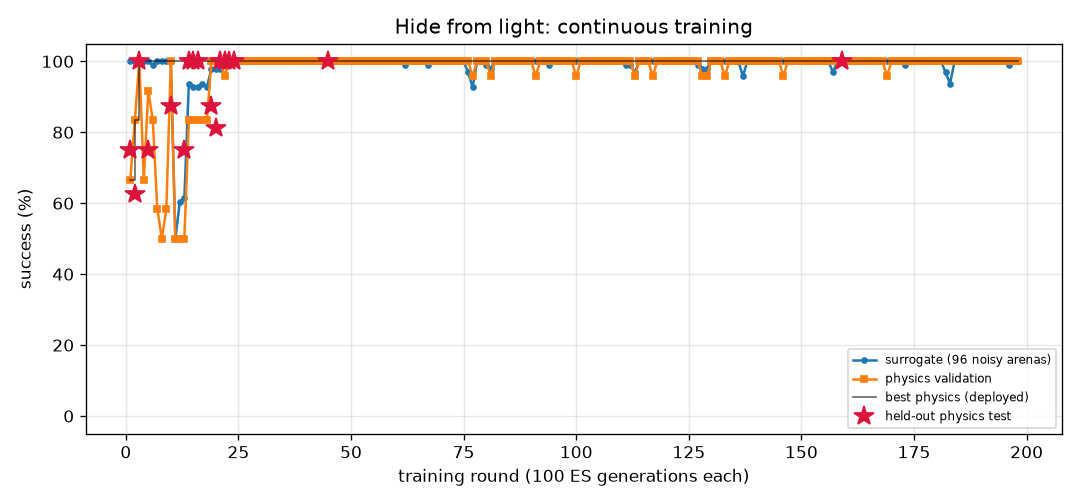
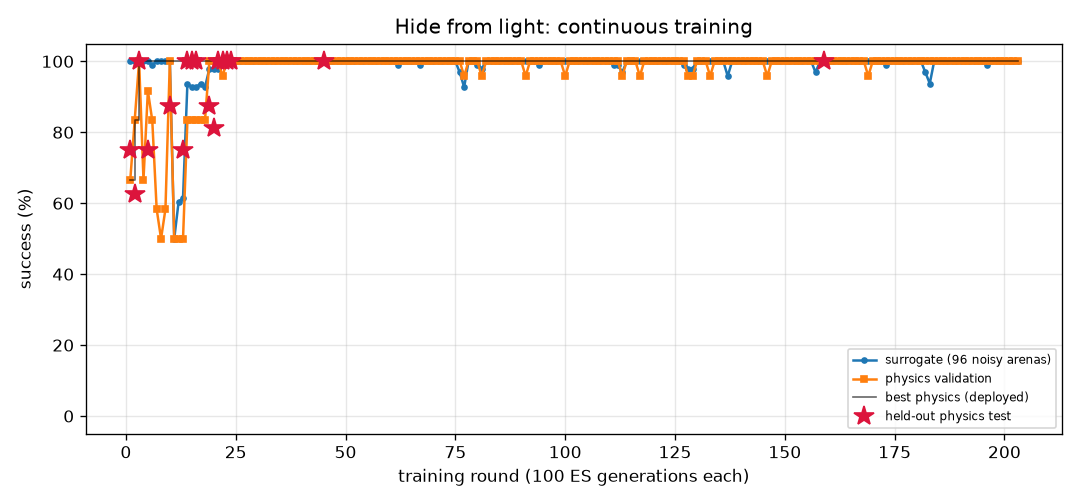
FlyLab: daily review — 7/7 optimal, all fresh checks 100%

diff --git a/projects/09_flylab/training/odor_avoid/REPORT.md b/projects/09_flylab/training/odor_avoid/REPORT.md
@@ -1,14 +1,14 @@
 # Escape a bad smell (`odor_avoid`) — training report
 
-*Auto-generated by `train_brains.py`, last updated 2026-10-11T23:02:17.*
+*Auto-generated by `train_brains.py`, last updated 2026-10-13T21:48:18.*
 
 ![curve](curve.png)
 
 | | |
 |---|---|
-| rounds | 422 |
-| ES generations | 42200 |
-| physics runs | 7434 |
+| rounds | 439 |
+| ES generations | 43900 |
+| physics runs | 7842 |
 | status | **optimal** |
 | best brain | round 373: physics validation **100%** on 24 arenas, surrogate 97% |
 | held-out physics test | **97%** on 32 unseen arenas (95% CI 84%-99%) (errors: [62.0, 57.4, 62.6, 61.9, 59.0, 61.6, 56.5, 60.7, 31.7, 60.9, 63.1, 57.1, 61.1, 62.1, 61.5, 60.2, 62.2, 55.2, 62.1, 54.2, 61.3, 62.0, 58.0, 61.9, 59.8, 56.5, 56.3, 56.4, 56.3, 57.7, 61.9, 32.4]) |
@@ -17,23 +17,6 @@ Physics error per arena: mm gained away from source (> 6 without first approachi
 
 | round | level | gens | sigma | surrogate | physics val | val errors | test | note |
 |---:|---:|---:|---:|---:|---:|---|---:|---|
-| 383 | 3 | 38300 | 0.028 | 92% | 100% | [62.9, 61.7, 55.5, 61.6, 60.8, 59.4, 61.7, 42.4, 60.9, 44.6, 43.2, 61.4, 36.7, 53.3, 6.5, 61.7, 61.5, 61.0, 50.0, 57.7, 61.8, 53.8, 59.6, 62.0] |  |  |
-| 384 | 3 | 38400 | 0.029 | 96% | 96% | [63.2, 56.0, 56.3, 59.1, 61.6, 61.2, 61.6, 55.2, 60.3, 35.1, 45.7, 61.7, 53.0, 55.5, 40.4, 61.9, 61.8, 62.0, 55.2, 58.3, 61.8, 52.8, 58.7, 62.3] |  |  |
-| 385 | 3 | 38500 | 0.026 | 97% | 100% | [61.1, 57.8, 55.9, 57.2, 61.8, 60.6, 61.9, 60.8, 61.5, 59.6, 47.1, 61.5, 48.5, 54.4, 29.2, 61.3, 61.2, 60.0, 52.4, 60.1, 60.6, 61.6, 60.9, 62.1] |  | restart from best |
-| 386 | 3 | 38600 | 0.026 | 98% | 96% | [62.8, 58.6, 57.8, 61.3, 61.7, 61.9, 61.5, 43.6, 59.8, 59.2, 62.0, 61.8, 55.2, 58.4, 42.6, 61.3, 61.7, 60.7, 54.9, 60.2, 61.7, 61.3, 58.7, 58.2] |  |  |
-| 387 | 3 | 38700 | 0.025 | 96% | 96% | [62.8, 58.9, 58.2, 60.5, 61.1, 61.1, 60.8, 45.0, 60.8, 46.4, 60.6, 59.6, 51.5, 55.1, 38.9, 60.1, 60.0, 59.6, 53.5, 57.0, 59.6, 58.1, 59.1, 52.7] |  |  |
-| 388 | 3 | 38800 | 0.026 | 93% | 96% | [62.4, 59.5, 56.5, 61.1, 59.6, 61.1, 60.9, 58.8, 60.2, 42.4, 59.2, 60.2, 52.5, 54.7, 43.9, 58.4, 60.6, 60.3, 52.3, 56.5, 60.7, 61.3, 58.6, 62.0] |  |  |
-| 389 | 3 | 38900 | 0.028 | 95% | 96% | [61.7, 60.8, 55.8, 60.9, 60.6, 61.6, 61.6, 59.1, 61.6, 60.3, 60.3, 61.9, 51.4, 55.7, 33.6, 61.8, 61.7, 62.4, 54.6, 56.7, 61.6, 61.4, 57.2, 61.3] |  | restart from best |
-| 390 | 3 | 39000 | 0.026 | 95% | 96% | [63.2, 58.7, 56.3, 60.9, 62.2, 61.3, 61.7, 52.1, 60.3, 60.3, 62.2, 61.9, 54.7, 56.3, 38.1, 61.9, 61.9, 62.6, 55.6, 57.3, 61.9, 61.9, 59.3, 58.6] |  |  |
-| 391 | 3 | 39100 | 0.027 | 95% | 100% | [61.6, 59.8, 55.8, 60.7, 61.7, 61.0, 60.5, 34.1, 60.7, 60.3, 61.2, 61.2, 54.7, 55.9, 50.4, 61.9, 61.4, 61.4, 54.6, 56.7, 61.6, 60.2, 59.1, 51.4] |  |  |
-| 392 | 3 | 39200 | 0.027 | 97% | 96% | [61.7, 59.9, 55.3, 60.2, 60.2, 59.7, 60.2, 10.8, 59.6, 25.1, 7.2, 60.6, 50.5, 55.0, 41.2, 59.4, 60.4, 60.1, 53.8, 57.2, 60.9, 44.7, 54.8, 29.5] |  |  |
-| 393 | 3 | 39300 | 0.026 | 96% | 100% | [62.9, 57.5, 56.3, 61.2, 62.3, 61.7, 61.7, 57.0, 60.2, 42.8, 54.4, 62.2, 50.0, 55.9, 39.7, 61.8, 62.0, 60.8, 55.0, 55.8, 61.9, 50.0, 61.5, 58.8] |  | restart from best |
-| 394 | 3 | 39400 | 0.026 | 94% | 100% | [63.3, 57.1, 56.2, 60.1, 61.2, 61.0, 61.1, 53.4, 61.1, 54.3, 58.0, 61.7, 53.1, 55.4, 31.7, 62.4, 62.2, 61.7, 54.9, 57.8, 61.8, 62.5, 59.6, 62.7] |  |  |
-| 395 | 3 | 39500 | 0.028 | 94% | 100% | [62.7, 59.5, 57.2, 61.3, 61.8, 62.6, 60.9, 53.5, 61.7, 61.7, 61.4, 62.5, 54.4, 57.4, 11.2, 61.4, 62.3, 62.2, 55.3, 57.3, 62.2, 59.5, 60.0, 60.9] |  |  |
-| 396 | 3 | 39600 | 0.028 | 98% | 96% | [63.3, 61.3, 58.0, 59.7, 62.0, 62.8, 60.9, 58.8, 62.0, 62.4, 61.7, 61.4, 54.3, 58.2, 50.4, 62.6, 62.0, 62.5, 54.7, 59.9, 61.8, 62.3, 56.8, 59.1] |  |  |
-| 397 | 3 | 39700 | 0.025 | 96% | 100% | [61.5, 59.9, 55.9, 59.3, 60.2, 60.8, 62.0, 60.2, 62.2, 47.6, 51.7, 61.5, 50.4, 55.2, 36.2, 61.4, 61.3, 61.6, 52.0, 56.8, 61.4, 61.0, 60.4, 61.6] |  | restart from best |
-| 398 | 3 | 39800 | 0.026 | 97% | 100% | [62.6, 59.4, 56.3, 60.9, 62.5, 62.5, 62.1, 46.7, 62.1, 57.5, 54.8, 61.9, 48.0, 56.1, 21.2, 57.2, 61.7, 56.1, 49.7, 59.7, 61.9, 53.5, 59.9, 53.3] |  |  |
-| 399 | 3 | 39900 | 0.026 | 98% | 100% | [63.5, 58.4, 56.7, 59.6, 62.4, 62.7, 62.0, 22.7, 61.5, 61.9, 61.0, 61.7, 48.9, 55.2, 18.5, 61.5, 62.1, 60.6, 50.0, 56.3, 62.0, 62.5, 59.1, 52.5] |  |  |
 | 400 | 3 | 40000 | 0.025 | 94% | 100% | [59.4, 53.8, 55.8, 55.5, 60.9, 60.1, 60.1, 56.8, 60.0, 52.7, 40.0, 60.5, 43.7, 55.0, 34.0, 59.3, 60.9, 59.9, 48.7, 53.6, 60.7, 58.0, 56.3, 58.4] |  |  |
 | 401 | 3 | 40100 | 0.028 | 96% | 96% | [63.8, 61.6, 56.6, 59.3, 62.4, 63.0, 61.9, 62.3, 61.1, 63.1, 62.7, 62.5, 55.2, 56.6, 48.5, 62.4, 62.1, 62.7, 55.2, 60.6, 62.4, 63.0, 55.9, 63.1] |  | restart from best |
 | 402 | 3 | 40200 | 0.026 | 93% | 96% | [64.0, 56.3, 55.8, 61.6, 61.6, 62.3, 62.1, 48.5, 60.9, 57.5, 61.7, 61.1, 52.6, 56.1, 32.4, 62.2, 62.0, 62.4, 55.3, 59.0, 61.5, 60.5, 58.9, 62.5] |  |  |
@@ -57,3 +40,20 @@ Physics error per arena: mm gained away from source (> 6 without first approachi
 | 420 | 3 | 42000 | 0.026 | 95% | 96% | [63.5, 61.7, 56.9, 61.9, 60.5, 59.9, 61.7, 23.2, 61.0, 43.5, 60.3, 61.3, 51.9, 55.3, 29.7, 60.5, 61.8, 60.0, 55.1, 60.9, 61.9, 38.6, 61.2, 62.8] |  |  |
 | 421 | 3 | 42100 | 0.027 | 96% | 96% | [63.8, 61.5, 56.4, 61.8, 62.3, 62.5, 62.2, 60.6, 60.9, 61.6, 61.4, 62.5, 55.2, 56.4, 43.7, 62.0, 62.3, 62.3, 55.4, 61.7, 62.4, 60.6, 61.8, 62.9] |  | restart from best |
 | 422 | 3 | 42200 | 0.026 | 94% | 100% | [63.0, 61.1, 56.4, 55.8, 60.4, 60.0, 61.0, 60.6, 61.6, 57.2, 57.5, 61.6, 50.5, 54.1, 29.2, 62.1, 62.1, 62.0, 51.2, 59.3, 62.4, 61.2, 61.7, 62.8] |  |  |
+| 423 | 3 | 42300 | 0.028 | 94% | 96% | [63.5, 57.4, 56.3, 58.7, 60.8, 60.9, 62.3, 58.8, 59.9, 54.0, 58.5, 62.0, 53.5, 55.5, 42.1, 62.0, 61.8, 60.8, 55.3, 56.9, 61.8, 54.3, 58.4, 45.5] |  |  |
+| 424 | 3 | 42400 | 0.028 | 94% | 96% | [63.5, 57.4, 56.4, 60.8, 62.0, 61.0, 61.8, 42.2, 60.4, 56.1, 62.3, 62.2, 55.0, 56.4, 48.1, 62.3, 62.2, 60.5, 55.5, 56.1, 62.4, 61.9, 61.2, 50.1] |  |  |
+| 425 | 3 | 42500 | 0.028 | 95% | 100% | [63.4, 61.5, 56.2, 61.4, 61.3, 61.5, 61.5, 62.6, 61.2, 60.9, 35.1, 61.8, 49.3, 55.6, 15.8, 62.4, 62.0, 49.4, 51.5, 56.9, 62.0, 62.0, 61.4, 62.6] |  | restart from best |
+| 426 | 3 | 42600 | 0.026 | 97% | 96% | [62.1, 60.9, 56.3, 60.4, 61.6, 62.5, 60.7, 45.2, 61.9, 39.8, 61.0, 62.1, 51.8, 55.8, 37.5, 62.0, 61.8, 62.6, 55.2, 59.5, 61.8, 53.4, 59.9, 61.6] |  |  |
+| 427 | 3 | 42700 | 0.026 | 95% | 96% | [62.8, 60.0, 56.1, 61.1, 62.4, 61.2, 61.3, 1.5, 61.1, 57.3, 60.7, 61.9, 51.6, 56.2, 39.3, 61.7, 61.7, 61.3, 51.9, 56.9, 61.8, 39.0, 59.0, 14.9] |  |  |
+| 428 | 3 | 42800 | 0.027 | 96% | 96% | [63.6, 59.6, 55.7, 61.6, 62.9, 61.5, 61.5, 59.7, 61.7, 61.7, 62.0, 62.0, 52.1, 55.7, 42.7, 62.1, 61.8, 61.7, 55.0, 57.4, 62.2, 62.6, 61.6, 61.9] |  |  |
+| 429 | 3 | 42900 | 0.026 | 96% | 100% | [62.7, 58.7, 56.4, 61.2, 62.3, 62.0, 61.2, 40.6, 60.8, 58.1, 60.9, 61.7, 50.3, 56.0, 47.7, 62.5, 61.8, 62.1, 54.1, 57.1, 61.8, 60.6, 60.9, 61.1] |  | restart from best |
+| 430 | 3 | 43000 | 0.026 | 95% | 96% | [63.3, 57.6, 58.1, 58.7, 59.7, 48.7, 61.6, 32.0, 60.4, 50.6, 23.6, 60.6, 51.2, 55.6, 44.9, 58.1, 61.1, 49.9, 51.7, 56.5, 61.1, 53.2, 58.9, 33.4] |  |  |
+| 431 | 3 | 43100 | 0.027 | 97% | 96% | [61.2, 60.6, 56.4, 59.6, 60.7, 60.0, 60.1, 49.9, 61.3, 40.9, 56.5, 60.4, 52.5, 57.7, 25.7, 60.5, 60.9, 60.5, 54.3, 58.6, 61.2, 62.0, 59.2, 62.4] |  |  |
+| 432 | 3 | 43200 | 0.026 | 95% | 100% | [61.6, 60.4, 55.5, 55.4, 56.7, 45.2, 60.3, 57.7, 60.7, 53.0, 51.3, 60.4, 51.8, 56.3, 37.7, 56.0, 60.4, 52.9, 54.5, 58.5, 60.4, 57.0, 60.8, 61.3] |  |  |
+| 433 | 3 | 43300 | 0.027 | 95% | 100% | [61.0, 56.0, 55.7, 56.1, 60.8, 60.0, 60.2, 44.0, 60.5, 47.2, 60.4, 60.3, 54.2, 56.0, 29.0, 55.0, 61.1, 42.3, 54.4, 56.1, 60.2, 49.7, 60.1, 47.2] |  | restart from best |
+| 434 | 3 | 43400 | 0.026 | 94% | 100% | [63.4, 56.8, 57.3, 57.5, 62.3, 61.3, 61.8, 45.0, 60.8, 60.7, 61.6, 62.1, 54.7, 57.6, 45.7, 62.3, 62.2, 62.3, 54.7, 56.6, 62.1, 62.0, 57.8, 60.3] |  |  |
+| 435 | 3 | 43500 | 0.028 | 95% | 96% | [62.9, 57.5, 58.5, 60.4, 61.0, 61.1, 62.2, 42.4, 59.9, 37.9, 24.3, 60.6, 51.2, 55.4, 39.5, 61.5, 61.4, 59.4, 54.5, 57.9, 60.6, 62.1, 58.2, 62.7] |  |  |
+| 436 | 3 | 43600 | 0.027 | 97% | 96% | [62.5, 57.3, 57.4, 57.3, 60.1, 52.6, 61.2, 43.6, 59.0, 57.9, 23.7, 59.9, 49.4, 56.7, 37.6, 61.6, 59.3, 60.8, 50.4, 56.1, 59.8, 54.5, 57.4, 53.2] |  |  |
+| 437 | 3 | 43700 | 0.026 | 95% | 96% | [63.1, 54.0, 57.8, 57.6, 59.6, 61.6, 61.0, 34.6, 60.1, 56.6, 21.8, 60.4, 50.8, 55.7, 29.9, 61.4, 60.9, 61.7, 51.8, 53.6, 60.7, 59.6, 57.6, 48.1] |  | restart from best |
+| 438 | 3 | 43800 | 0.026 | 96% | 96% | [62.5, 61.3, 56.0, 61.1, 59.9, 58.8, 61.5, 58.9, 62.1, 58.9, 15.0, 61.8, 52.8, 55.4, 31.1, 61.4, 61.9, 54.9, 54.5, 60.9, 61.3, 59.6, 61.2, 62.2] |  |  |
+| 439 | 3 | 43900 | 0.026 | 95% | 96% | [62.8, 57.8, 56.4, 61.5, 60.8, 61.9, 61.4, 40.7, 61.5, 56.8, 31.2, 62.2, 52.2, 55.9, 43.3, 61.7, 62.3, 61.6, 55.2, 60.1, 62.5, 61.0, 61.2, 61.8] |  |  |

diff --git a/projects/09_flylab/training/turn/REPORT.md b/projects/09_flylab/training/turn/REPORT.md
@@ -1,14 +1,14 @@
 # Turn in place (`turn`) — training report
 
-*Auto-generated by `train_brains.py`, last updated 2026-10-13T15:09:05.*
+*Auto-generated by `train_brains.py`, last updated 2026-10-13T21:52:19.*
 
 ![curve](curve.png)
 
 | | |
 |---|---|
-| rounds | 371 |
-| ES generations | 37100 |
-| physics runs | 9150 |
+| rounds | 387 |
+| ES generations | 38700 |
+| physics runs | 9534 |
 | status | **optimal** |
 | best brain | round 80: physics validation **100%** on 24 arenas, surrogate 100% |
 | held-out physics test | **97%** on 32 unseen arenas (95% CI 84%-99%) (errors: [1.6, 3.3, 6.3, 3.7, 1.1, 0.4, 2.4, 2.9, 0.1, 2.6, 0.5, 2.7, 1.5, 3.1, 4.5, 0.2, 0.5, 1.1, 2.0, 4.4, 2.8, 3.2, 0.3, 2.2, 0.5, 3.0, 0.3, 5.4, 0.4, 1.0, 4.7, 10.7]) |
@@ -17,22 +17,6 @@ Physics error per arena: deg from target heading (< 20 = success).
 
 | round | level | gens | sigma | surrogate | physics val | val errors | test | note |
 |---:|---:|---:|---:|---:|---:|---|---:|---|
-| 332 | 3 | 33200 | 0.026 | 99% | 79% | [1.6, 6.7, 1.9, 1.9, 1.9, 2.7, 5.9, 5.2, 4.7, 0.3, 3.9, 0.8, 1.1, 0.2, 4.2, 1.7, 0.1, 0.8, 3.1, 3.5, 5.6, 0.8, 6.5, 3.2] |  | restart from best |
-| 333 | 3 | 33300 | 0.024 | 99% | 96% | [8.4, 8.6, 5.5, 6.0, 3.9, 1.1, 1.0, 2.5, 0.4, 2.6, 0.4, 3.4, 5.5, 6.5, 0.9, 2.0, 3.7, 4.4, 4.7, 2.4, 5.8, 1.7, 1.0, 6.9] |  |  |
-| 334 | 3 | 33400 | 0.025 | 99% | 75% | [8.1, 5.4, 8.5, 1.4, 1.2, 0.2, 7.9, 5.3, 9.6, 1.4, 5.6, 2.9, 3.0, 0.9, 4.7, 2.6, 2.6, 4.8, 2.8, 3.7, 2.1, 0.8, 9.3, 6.6] |  |  |
-| 335 | 3 | 33500 | 0.025 | 99% | 92% | [6.2, 8.0, 0.1, 3.0, 4.4, 1.3, 3.7, 4.9, 4.6, 0.4, 3.6, 1.6, 2.0, 3.7, 3.6, 0.9, 0.9, 0.9, 1.0, 1.1, 5.6, 0.1, 5.5, 0.2] |  |  |
-| 336 | 3 | 33600 | 0.025 | 100% | 79% | [6.7, 0.9, 5.2, 1.1, 4.4, 0.8, 5.6, 4.9, 5.8, 14.1, 5.5, 0.1, 0.6, 0.4, 5.3, 0.4, 0.8, 2.9, 0.0, 1.4, 5.8, 4.2, 5.8, 3.8] |  | restart from best |
-| 337 | 3 | 33700 | 0.024 | 99% | 96% | [3.2, 8.3, 6.7, 0.6, 2.8, 2.9, 3.6, 3.3, 4.8, 1.1, 3.3, 0.9, 2.5, 1.7, 2.4, 0.0, 1.0, 0.6, 0.1, 0.4, 6.7, 0.5, 1.8, 2.9] |  |  |
-| 338 | 3 | 33800 | 0.025 | 98% | 88% | [10.0, 12.5, 9.7, 4.4, 3.5, 2.3, 1.6, 7.8, 1.2, 2.4, 1.7, 4.2, 0.1, 3.1, 1.1, 2.9, 5.4, 2.4, 2.8, 5.6, 9.7, 0.2, 1.6, 5.1] |  |  |
-| 339 | 3 | 33900 | 0.025 | 99% | 100% | [5.6, 9.3, 3.8, 5.1, 4.8, 0.3, 3.4, 1.5, 4.4, 1.4, 3.5, 2.0, 0.4, 2.5, 3.6, 0.9, 2.4, 1.6, 1.0, 3.0, 5.0, 1.5, 2.1, 2.3] |  |  |
-| 340 | 3 | 34000 | 0.025 | 99% | 83% | [6.5, 7.0, 0.6, 0.2, 3.7, 5.3, 5.2, 1.4, 5.3, 0.5, 4.9, 1.3, 2.4, 0.9, 4.5, 0.0, 0.6, 0.1, 0.1, 0.1, 4.9, 3.8, 6.7, 6.2] |  | restart from best |
-| 341 | 3 | 34100 | 0.024 | 100% | 75% | [6.9, 2.7, 3.8, 2.4, 0.7, 1.9, 5.1, 7.5, 6.6, 1.4, 3.2, 0.9, 0.2, 1.0, 4.9, 0.0, 0.8, 1.7, 0.2, 0.8, 2.8, 0.5, 6.3, 7.1] |  |  |
-| 342 | 3 | 34200 | 0.024 | 99% | 79% | [8.4, 9.8, 2.0, 2.1, 0.3, 3.2, 3.9, 3.3, 4.3, 1.9, 2.7, 2.9, 1.0, 3.3, 2.0, 1.1, 2.5, 0.0, 1.6, 2.7, 5.1, 2.9, 2.1, 2.8] |  |  |
-| 343 | 3 | 34300 | 0.025 | 99% | 83% | [4.6, 9.0, 3.1, 5.1, 3.2, 4.7, 2.5, 4.7, 2.6, 1.9, 2.2, 1.8, 3.7, 2.7, 3.7, 0.3, 2.0, 0.6, 1.0, 2.2, 4.6, 0.1, 4.0, 4.8] |  |  |
-| 344 | 3 | 34400 | 0.025 | 99% | 79% | [6.5, 9.2, 6.8, 0.5, 1.7, 2.1, 2.8, 1.1, 2.5, 1.4, 2.7, 1.5, 0.2, 4.2, 2.4, 0.4, 1.3, 0.4, 1.5, 0.7, 5.7, 1.1, 5.1, 5.3] |  | restart from best |
-| 345 | 3 | 34500 | 0.024 | 99% | 71% | [8.0, 8.5, 9.4, 2.7, 2.9, 1.6, 2.0, 0.1, 2.5, 0.4, 3.9, 2.3, 0.9, 4.7, 2.7, 1.4, 1.6, 0.9, 1.3, 1.2, 5.2, 0.8, 2.6, 0.9] |  |  |
-| 346 | 3 | 34600 | 0.025 | 97% | 71% | [7.6, 8.4, 4.9, 3.4, 3.2, 0.0, 2.9, 1.6, 2.1, 0.3, 1.8, 4.2, 2.4, 6.0, 2.1, 2.8, 4.1, 0.4, 1.5, 2.1, 6.4, 2.4, 2.9, 1.1] |  |  |
-| 347 | 3 | 34700 | 0.026 | 99% | 92% | [6.4, 11.0, 8.4, 5.9, 3.5, 2.6, 1.2, 3.2, 2.6, 2.9, 2.6, 5.0, 2.7, 3.4, 2.6, 2.5, 4.2, 0.8, 1.5, 3.3, 6.7, 1.4, 2.6, 2.9] |  |  |
 | 348 | 3 | 34800 | 0.025 | 100% | 83% | [1.4, 8.4, 12.9, 2.1, 2.6, 2.3, 2.7, 3.2, 3.4, 0.4, 2.3, 2.3, 1.9, 5.4, 3.3, 1.9, 2.4, 1.0, 0.4, 0.2, 3.2, 2.8, 2.7, 2.6] |  | restart from best |
 | 349 | 3 | 34900 | 0.024 | 100% | 62% | [5.6, 3.2, 4.3, 0.2, 1.0, 0.6, 5.9, 7.0, 6.6, 0.4, 5.3, 0.1, 0.3, 1.0, 4.7, 0.1, 0.3, 2.4, 0.1, 0.3, 2.8, 0.4, 5.2, 5.9] |  |  |
 | 350 | 3 | 35000 | 0.024 | 100% | 88% | [0.8, 8.5, 0.6, 2.3, 0.4, 2.5, 4.7, 4.2, 3.4, 1.4, 3.4, 4.2, 1.3, 0.1, 4.1, 1.3, 3.9, 2.1, 4.6, 1.1, 8.0, 1.0, 4.7, 4.6] |  |  |
@@ -57,3 +41,19 @@ Physics error per arena: deg from target heading (< 20 = success).
 | 369 | 3 | 36900 | 0.024 | 100% | 92% | [5.0, 3.2, 2.0, 2.9, 0.4, 2.4, 5.8, 0.4, 5.6, 0.2, 3.8, 0.9, 1.1, 2.0, 3.6, 0.4, 0.7, 2.7, 0.5, 0.6, 5.2, 2.5, 5.1, 0.4] |  |  |
 | 370 | 3 | 37000 | 0.024 | 100% | 96% | [6.6, 3.5, 13.4, 0.9, 1.9, 0.1, 4.8, 8.0, 6.6, 1.1, 3.6, 2.5, 1.4, 1.9, 5.0, 2.5, 1.9, 1.4, 2.4, 1.4, 3.3, 2.7, 4.5, 2.1] |  |  |
 | 371 | 3 | 37100 | 0.024 | 100% | 92% | [2.4, 4.6, 3.4, 1.7, 1.9, 2.9, 4.3, 4.9, 3.6, 0.5, 4.1, 1.5, 1.6, 2.4, 3.2, 3.5, 1.6, 2.6, 5.5, 1.4, 3.9, 1.1, 8.1, 4.9] |  |  |
+| 372 | 3 | 37200 | 0.024 | 99% | 79% | [2.2, 0.5, 5.0, 0.1, 1.5, 0.5, 6.1, 9.9, 5.6, 14.5, 4.6, 0.3, 0.1, 2.0, 5.1, 1.5, 0.1, 3.3, 3.3, 2.1, 3.3, 3.0, 6.0, 4.4] |  | restart from best |
+| 373 | 3 | 37300 | 0.024 | 99% | 75% | [5.5, 3.8, 1.4, 1.9, 0.4, 0.4, 7.8, 8.5, 8.4, 0.0, 6.0, 1.9, 0.6, 0.7, 7.0, 4.2, 0.9, 4.6, 3.4, 2.1, 3.3, 2.1, 7.3, 6.8] |  |  |
+| 374 | 3 | 37400 | 0.025 | 100% | 83% | [1.1, 7.0, 9.1, 4.1, 4.3, 114.4, 8.3, 11.0, 11.0, 1.2, 8.0, 1.5, 4.2, 1.5, 6.9, 4.7, 2.2, 5.6, 4.5, 3.7, 1.3, 2.2, 8.6, 9.4] |  |  |
+| 375 | 3 | 37500 | 0.024 | 99% | 92% | [7.5, 5.7, 1.9, 1.9, 0.2, 2.7, 5.0, 1.3, 5.3, 1.1, 3.0, 0.3, 2.3, 1.6, 4.9, 2.1, 0.2, 1.3, 2.3, 3.9, 4.6, 1.8, 3.2, 5.7] |  |  |
+| 376 | 3 | 37600 | 0.025 | 99% | 92% | [2.3, 3.5, 7.5, 2.4, 1.9, 1.0, 9.1, 10.8, 7.7, 3.5, 6.4, 3.7, 2.5, 1.1, 4.8, 5.7, 3.8, 3.2, 5.5, 4.7, 2.5, 2.8, 7.2, 6.2] |  | restart from best |
+| 377 | 3 | 37700 | 0.024 | 99% | 58% | [5.9, 7.9, 4.6, 3.4, 3.8, 5.2, 3.5, 3.2, 4.0, 0.2, 1.9, 1.9, 1.6, 2.4, 2.7, 2.2, 2.9, 0.3, 2.0, 2.4, 7.6, 1.1, 2.8, 3.0] |  |  |
+| 378 | 3 | 37800 | 0.025 | 100% | 96% | [6.5, 10.2, 4.0, 2.6, 3.0, 0.2, 3.7, 2.3, 2.7, 2.7, 2.6, 3.0, 1.3, 4.3, 2.5, 1.8, 2.8, 0.0, 2.7, 2.2, 4.3, 1.5, 3.2, 6.0] |  |  |
+| 379 | 3 | 37900 | 0.024 | 99% | 83% | [0.8, 1.8, 3.9, 2.7, 4.2, 1.5, 5.5, 8.9, 4.1, 0.4, 5.2, 1.9, 0.8, 2.1, 4.5, 1.3, 1.3, 1.5, 3.5, 2.7, 5.2, 2.4, 5.6, 5.3] |  |  |
+| 380 | 3 | 38000 | 0.025 | 99% | 79% | [2.8, 2.7, 5.5, 0.2, 1.1, 0.5, 7.3, 5.8, 7.2, 0.1, 4.4, 0.7, 1.6, 2.5, 5.3, 1.0, 0.8, 2.6, 0.9, 1.7, 1.5, 0.5, 6.2, 5.3] |  | restart from best |
+| 381 | 3 | 38100 | 0.024 | 100% | 79% | [7.4, 5.5, 7.9, 2.1, 2.3, 2.7, 5.5, 0.2, 4.5, 0.6, 3.7, 1.1, 0.1, 0.8, 3.7, 1.1, 2.0, 0.7, 0.6, 1.0, 6.0, 1.2, 5.6, 1.7] |  |  |
+| 382 | 3 | 38200 | 0.024 | 99% | 79% | [4.8, 2.8, 4.9, 0.4, 0.5, 1.4, 5.6, 5.4, 4.8, 1.3, 4.6, 1.4, 1.1, 3.4, 3.8, 1.0, 1.4, 0.9, 1.0, 0.1, 6.8, 0.6, 3.3, 3.8] |  |  |
+| 383 | 3 | 38300 | 0.025 | 100% | 83% | [0.7, 5.2, 9.2, 1.1, 4.5, 0.6, 6.6, 10.3, 9.6, 0.8, 5.8, 2.4, 1.5, 0.3, 5.9, 3.6, 2.4, 4.0, 4.5, 3.4, 3.5, 3.9, 8.9, 6.2] |  |  |
+| 384 | 3 | 38400 | 0.024 | 100% | 96% | [2.2, 2.1, 2.1, 2.4, 0.7, 5.0, 6.6, 9.0, 6.4, 12.1, 3.9, 3.4, 1.2, 0.2, 2.6, 2.2, 3.3, 3.1, 1.8, 10.7, 3.2, 1.0, 6.9, 3.1] |  | restart from best |
+| 385 | 3 | 38500 | 0.024 | 99% | 79% | [5.1, 5.6, 0.5, 3.4, 1.6, 0.4, 3.6, 3.6, 3.4, 0.5, 4.2, 0.1, 2.4, 2.2, 4.0, 0.2, 0.2, 1.4, 0.5, 0.5, 6.0, 0.3, 3.9, 3.9] |  |  |
+| 386 | 3 | 38600 | 0.025 | 98% | 83% | [1.9, 1.9, 0.1, 3.3, 2.5, 4.4, 5.7, 3.6, 5.7, 0.0, 5.7, 0.9, 2.1, 1.0, 7.2, 4.4, 0.0, 1.7, 3.2, 4.3, 5.7, 0.9, 3.9, 5.2] |  |  |
+| 387 | 3 | 38700 | 0.025 | 98% | 75% | [5.6, 1.1, 5.5, 0.2, 2.1, 3.4, 7.9, 2.3, 8.3, 2.4, 5.3, 1.0, 2.4, 1.1, 6.5, 0.8, 1.4, 1.7, 2.3, 3.3, 6.9, 0.4, 6.6, 2.8] |  |  |

diff --git a/projects/09_flylab/training/light_avoid/REPORT.md b/projects/09_flylab/training/light_avoid/REPORT.md
@@ -1,14 +1,14 @@
 # Hide from light (`light_avoid`) — training report
 
-*Auto-generated by `train_brains.py`, last updated 2026-10-11T23:03:30.*
+*Auto-generated by `train_brains.py`, last updated 2026-10-13T16:19:41.*
 
 ![curve](curve.png)
 
 | | |
 |---|---|
-| rounds | 198 |
-| ES generations | 19800 |
-| physics runs | 5024 |
+| rounds | 203 |
+| ES generations | 20300 |
+| physics runs | 5144 |
 | status | **optimal** |
 | best brain | round 159: physics validation **100%** on 24 arenas, surrogate 100% |
 | held-out physics test | **100%** on 32 unseen arenas (95% CI 89%-100%) (errors: [14.4, 56.1, 58.0, 57.9, 57.5, 14.0, 14.4, 56.6, 56.8, 13.3, 14.1, 56.6, 57.6, 13.1, 57.3, 55.9, 57.2, 55.0, 55.2, 53.9, 55.2, 12.4, 53.8, 53.7, 14.1, 13.7, 55.0, 57.8, 56.2, 13.1, 52.8, 56.5]) |
@@ -17,11 +17,6 @@ Physics error per arena: mm gained away from source (> 6 without first approachi
 
 | round | level | gens | sigma | surrogate | physics val | val errors | test | note |
 |---:|---:|---:|---:|---:|---:|---|---:|---|
-| 159 | 3 | 15900 | 0.024 | 100% | 100% | [52.3, 56.4, 55.7, 53.3, 57.8, 53.7, 53.9, 14.5, 54.5, 50.0, 56.5, 57.7, 14.4, 56.4, 56.4, 53.2, 14.2, 57.7, 57.2, 14.4, 53.8, 56.5, 54.5, 57.5] | 100% | new best |
-| 160 | 3 | 16000 | 0.024 | 100% | 100% | [36.9, 37.7, 38.2, 39.0, 39.2, 39.6, 35.5, 14.5, 38.1, 13.5, 39.4, 39.9, 14.4, 40.2, 39.1, 39.7, 14.2, 41.2, 38.7, 14.4, 40.0, 39.7, 36.9, 40.4] |  |  |
-| 161 | 3 | 16100 | 0.024 | 100% | 100% | [38.5, 39.0, 37.8, 39.7, 41.3, 37.6, 35.3, 14.5, 40.8, 13.1, 40.1, 39.3, 14.4, 40.6, 38.4, 38.4, 14.2, 38.6, 37.7, 14.4, 39.9, 40.7, 35.7, 40.0] |  |  |
-| 162 | 3 | 16200 | 0.024 | 100% | 100% | [56.9, 60.4, 60.2, 57.4, 59.5, 57.8, 59.0, 14.5, 54.5, 13.5, 59.3, 59.3, 14.4, 57.4, 60.3, 57.7, 14.2, 60.1, 60.7, 14.4, 56.3, 58.9, 58.9, 58.6] |  |  |
-| 163 | 3 | 16300 | 0.024 | 100% | 100% | [54.8, 59.5, 59.3, 55.3, 59.6, 55.6, 57.7, 14.5, 55.3, 13.3, 57.9, 59.4, 14.4, 58.9, 59.4, 54.7, 14.2, 60.1, 59.9, 14.4, 56.5, 58.3, 57.8, 58.9] |  | restart from best |
 | 164 | 3 | 16400 | 0.024 | 100% | 100% | [41.0, 38.5, 38.2, 41.6, 41.6, 39.7, 36.5, 14.5, 40.5, 13.2, 41.5, 41.7, 14.3, 41.3, 39.3, 40.3, 14.2, 41.6, 39.3, 14.4, 38.4, 42.1, 37.2, 41.9] |  |  |
 | 165 | 3 | 16500 | 0.024 | 100% | 100% | [42.7, 43.2, 42.2, 42.5, 44.7, 43.3, 40.4, 14.5, 40.4, 13.3, 44.3, 44.3, 14.4, 44.2, 42.9, 42.5, 14.2, 43.9, 42.8, 14.4, 42.5, 45.1, 41.0, 43.8] |  |  |
 | 166 | 3 | 16600 | 0.024 | 100% | 100% | [58.0, 61.2, 61.0, 58.3, 60.2, 58.2, 59.9, 14.5, 56.4, 13.3, 59.9, 60.0, 14.4, 57.8, 61.1, 57.8, 14.2, 60.8, 61.4, 14.4, 57.8, 59.7, 59.8, 59.4] |  |  |
@@ -57,3 +52,8 @@ Physics error per arena: mm gained away from source (> 6 without first approachi
 | 196 | 3 | 19600 | 0.024 | 99% | 100% | [33.6, 31.4, 32.0, 31.7, 30.4, 33.7, 32.1, 14.5, 12.9, 13.3, 32.7, 29.5, 14.4, 30.3, 31.8, 33.3, 14.2, 27.8, 32.0, 14.4, 31.2, 31.9, 32.9, 28.0] |  |  |
 | 197 | 3 | 19700 | 0.025 | 100% | 100% | [53.3, 57.8, 57.2, 54.8, 59.2, 54.7, 55.1, 14.5, 44.2, 13.4, 57.9, 58.9, 14.4, 57.0, 57.7, 53.9, 14.2, 59.1, 58.0, 14.4, 51.5, 58.2, 55.2, 59.0] |  |  |
 | 198 | 3 | 19800 | 0.024 | 100% | 100% | [56.8, 61.5, 61.3, 57.1, 60.9, 57.8, 60.0, 14.5, 55.4, 13.3, 60.3, 60.7, 14.4, 58.5, 61.4, 59.5, 14.2, 61.5, 61.7, 14.4, 57.7, 59.8, 59.8, 60.1] |  |  |
+| 199 | 3 | 19900 | 0.024 | 100% | 100% | [59.1, 62.1, 61.9, 58.8, 60.8, 59.4, 60.9, 14.5, 13.1, 13.4, 55.5, 60.6, 14.4, 58.2, 62.0, 58.0, 14.2, 61.3, 62.4, 14.4, 58.9, 57.4, 60.6, 60.0] |  | restart from best |
+| 200 | 3 | 20000 | 0.024 | 100% | 100% | [37.6, 39.6, 38.5, 39.9, 41.9, 38.4, 36.3, 14.5, 36.9, 13.2, 40.7, 41.8, 14.4, 40.5, 38.6, 39.8, 14.2, 41.6, 39.5, 14.4, 38.9, 40.4, 36.1, 42.5] |  |  |
+| 201 | 3 | 20100 | 0.024 | 100% | 100% | [37.4, 37.4, 36.9, 37.7, 41.2, 37.4, 34.5, 14.5, 39.6, 13.3, 39.6, 41.4, 14.4, 38.4, 37.3, 37.0, 14.2, 40.7, 37.1, 14.4, 38.9, 39.0, 34.0, 41.4] |  |  |
+| 202 | 3 | 20200 | 0.024 | 100% | 100% | [57.1, 61.8, 61.6, 58.2, 61.8, 57.9, 60.2, 14.5, 58.3, 13.2, 60.7, 61.7, 14.4, 61.2, 61.8, 57.4, 14.2, 62.3, 62.1, 14.4, 54.9, 60.7, 60.0, 61.2] |  |  |
+| 203 | 3 | 20300 | 0.024 | 100% | 100% | [58.1, 62.0, 61.7, 58.9, 61.8, 59.0, 60.4, 14.5, 51.6, 13.3, 61.4, 61.7, 14.4, 59.7, 61.8, 57.3, 14.2, 62.4, 62.3, 14.4, 58.7, 61.2, 60.2, 61.2] |  | restart from best |

diff --git a/projects/09_flylab/training/TRAINING.md b/projects/09_flylab/training/TRAINING.md
@@ -1,15 +1,15 @@
 # FlyLab brains — continuous training log
 
-*Auto-generated by `train_brains.py`, last updated 2026-10-13T15:09:05.*
+*Auto-generated by `train_brains.py`, last updated 2026-10-13T21:52:19.*
 
 Every skill has its own brain and its own training process: surrogate ES rounds, physics validation in MuJoCo, keep-the-best selection, and a held-out physics test that is never used for selection. See each skill's report for its full round-by-round history. Mastery is progressive: passing a level (100% physics validation, >=95% surrogate) doubles the validation and test arena sets; a brain is **optimal** once it holds up at level 3 (>=95% of 24 validation arenas) AND scores >=90% on the 32 held-out test arenas. Test columns show 95% Wilson confidence intervals.
 
 | skill | rounds | ES generations | physics runs | surrogate | physics val | **physics test** | status |
 |---|---:|---:|---:|---:|---:|---:|---|
 | [Walk forward](walk_forward/REPORT.md) | 92 | 9200 | 2158 | 100% | 100% of 24 | 100% of 32 (CI 89-100%) | **optimal** |
-| [Turn in place](turn/REPORT.md) | 371 | 37100 | 9150 | 100% | 100% of 24 | 97% of 32 (CI 84-99%) | **optimal** |
+| [Turn in place](turn/REPORT.md) | 387 | 38700 | 9534 | 100% | 100% of 24 | 97% of 32 (CI 84-99%) | **optimal** |
 | [Go to a location](goto/REPORT.md) | 86 | 8600 | 1950 | 100% | 100% of 24 | 100% of 32 (CI 89-100%) | **optimal** |
 | [Find food by smell](odor_seek/REPORT.md) | 94 | 9400 | 1590 | 100% | 100% of 24 | 100% of 32 (CI 89-100%) | **optimal** |
-| [Escape a bad smell](odor_avoid/REPORT.md) | 422 | 42200 | 7434 | 97% | 100% of 24 | 97% of 32 (CI 84-99%) | **optimal** |
+| [Escape a bad smell](odor_avoid/REPORT.md) | 439 | 43900 | 7842 | 97% | 100% of 24 | 97% of 32 (CI 84-99%) | **optimal** |
 | [Walk toward light](light_seek/REPORT.md) | 275 | 27500 | 3352 | 100% | 100% of 24 | 100% of 32 (CI 89-100%) | **optimal** |
-| [Hide from light](light_avoid/REPORT.md) | 198 | 19800 | 5024 | 100% | 100% of 24 | 100% of 32 (CI 89-100%) | **optimal** |
+| [Hide from light](light_avoid/REPORT.md) | 203 | 20300 | 5144 | 100% | 100% of 24 | 100% of 32 (CI 89-100%) | **optimal** |
